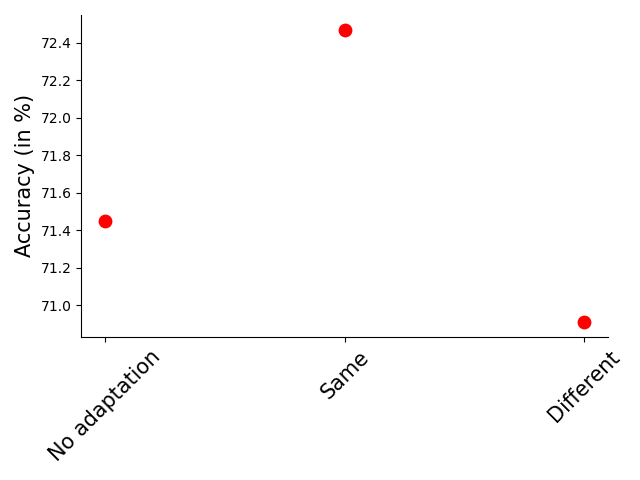
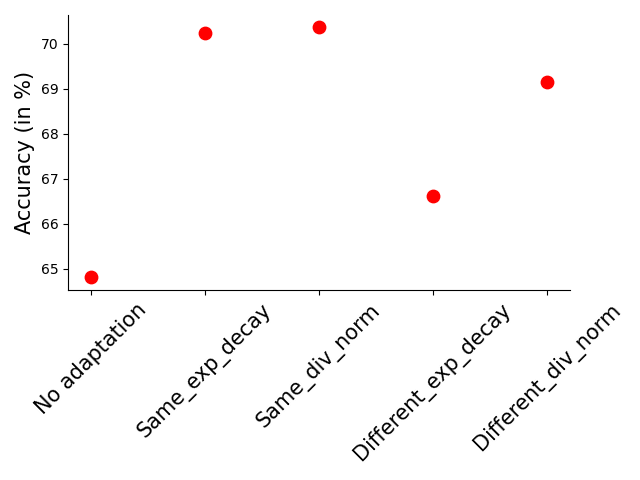
initial DN model performance (one initiliazation)

diff --git a/visualize_model_activations.py b/visualize_model_activations.py
@@ -58,6 +58,10 @@ batchsiz = 1
 
 colors = ['crimson', 'deepskyblue', 'orange']
 
+# define number of timesteps
+t_steps = 10
+print('\nNumber of timesteps: ', t_steps)
+
 linestyles = ['dotted', (0, (5, 10)), 'dashed', 'dashdot', (0, (3, 5, 1, 5, 1, 5))]
 linestyles_exp_decay = ['dotted', (0, (5, 10)), 'dashed', 'dashdot', (0, (3, 5, 1, 5, 1, 5))]
 linestyles_div_norm = ['dotted', (0, (3, 5, 1, 5, 1, 5)), (0, (5, 10)), 'dashed', 'dashdot']
@@ -67,11 +71,9 @@ alpha = np.linspace(0, 1, len(layers))
 alpha_exp_decay = np.linspace(0, 1, len(layers_exp_decay))
 alpha_div_norm = np.linspace(0, 1, len(layers_div_norm))
 
-# timecourse
-sample_rate = 40
-t_steps = 160
-dur = 80
-start = [40]
+# define number of timesteps
+t_steps = 10
+print('\nNumber of timesteps: ', t_steps)
 
 # t_steps = 15
 # dur = 10
@@ -103,28 +105,29 @@ elif (noise == 'same') | (noise == 'different'):
 dt = noiseMNIST_dataset(noise_imgs, noise_lbls)
 print('Shape training set: ', noise_imgs.shape, ', ', noise_lbls.shape)
 
-# create stimuli across timepoints
-noise_imgs, noise_lbls = create_stim_timecourse(dt, idx, t_steps, dur, start, noise_lbls)
-if plot:
-    fig2, axs = plt.subplots(1, t_steps)
-    for t in range(t_steps):    
-        axs[t].imshow(noise_imgs[t, :, :, :].reshape(28, 28, 1), cmap='gray', vmin=0, vmax=1)
-        axs[t].set_title('t =  ' + str(t+1), fontsize=5)
-    plt.show()
-    plt.close()
+# # create stimuli across timepoints
+# noise_imgs, noise_lbls = create_stim_timecourse(dt, idx, t_steps, dur, start, noise_lbls)
+# if plot:
+#     fig2, axs = plt.subplots(1, t_steps)
+#     for t in range(t_steps):    
+#         axs[t].imshow(noise_imgs[t, :, :, :].reshape(28, 28, 1), cmap='gray', vmin=0, vmax=1)
+#         axs[t].set_title('t =  ' + str(t+1), fontsize=5)
+#     plt.show()
+#     plt.close()
+
+tau1_init = torch.Tensor([0.0075])
+tau2_init = torch.Tensor([0.3741])
+sigma_init = torch.Tensor([0.1711])
 
 # initiate models
 model = cnn_feedforward(t_steps=t_steps)
-# model.load_state_dict(torch.load(dir+'weights/weights_feedforward_' + noise + '_' + contrast + '.pth'))
+model.load_state_dict(torch.load(dir+'weights/weights_feedforward_' + noise + '_' + contrast + '.pth'))
 
 model_exp_decay = cnn_feedforward_exp_decay(t_steps=t_steps)
-# model_exp_decay.load_state_dict(torch.load(dir+'weights/weights_feedforward_exp_decay_' + noise + '_' + contrast + '.pth'))    
+model_exp_decay.load_state_dict(torch.load(dir+'weights/weights_feedforward_exp_decay_' + noise + '_' + contrast + '.pth'))    
 
-# model_div_norm = cnn_feedforward_div_norm(batchsiz=batchsiz, t_steps=t_steps, sample_rate=sample_rate)
-# model_div_norm.load_state_dict(torch.load(dir+'weights/weights_feedforward_div_norm_' + noise + '_' + contrast + '.pth'))    
-
-model_div_norm = cnn_feedforward_div_norm_rec(t_steps=t_steps)
-# model_div_norm.load_state_dict(torch.load(dir+'weights/weights_feedforward_div_norm_' + noise + '_' + contrast + '.pth'))    
+model_div_norm = cnn_feedforward_div_norm(tau1_init, tau2_init, sigma_init, batchsiz=batchsiz, t_steps=t_steps, sample_rate=sample_rate)
+model_div_norm.load_state_dict(torch.load(dir+'weights/weights_feedforward_div_norm_' + noise + '_' + contrast + '.pth'))    
 
 print('Models loaded!')
 

diff --git a/visualize_model_performance_sep.py b/visualize_model_performance_sep.py
@@ -27,7 +27,7 @@ if linux:
     dir = '/home/amber/OneDrive/code/git_nAdaptation_DNN/'
 
 # noise labels
-noise_labels = ['No adaptation', 'Same', 'Different']
+noise_labels = ['No adaptation', 'Same_exp_decay', 'Same_div_norm', 'Different_exp_decay', 'Different_div_norm']
 contrast = 'lcontrast'
 
 # load accuracies with random initializations
@@ -35,21 +35,29 @@ accu_no = torch.load(dir+'accu/feedforward_same_' + contrast)
 accu_no_mean = torch.mean(accu_no)*100
 accu_no_std = torch.std(accu_no)/math.sqrt(len(accu_no))*100
 
-accu_same = torch.load(dir+'accu/feedforward_exp_decay_same_' + contrast)
-accu_same_mean = torch.mean(accu_same)*100
-accu_same_std = torch.std(accu_same)/math.sqrt(len(accu_same))*100
+accu_same_exp_decay = torch.load(dir+'accu/feedforward_exp_decay_same_' + contrast)
+accu_same_mean_exp_decay = torch.mean(accu_same_exp_decay)*100
+accu_same_std_exp_decay = torch.std(accu_same_exp_decay)/math.sqrt(len(accu_same_exp_decay))*100
 
-accu_different = torch.load(dir+'accu/feedforward_exp_decay_different_' + contrast)
-accu_diff_mean = torch.mean(accu_different)*100
-accu_diff_std = torch.std(accu_different)/math.sqrt(len(accu_different))*100
+accu_different_exp_decay = torch.load(dir+'accu/feedforward_exp_decay_different_' + contrast)
+accu_diff_mean_exp_decay = torch.mean(accu_different_exp_decay)*100
+accu_diff_std_exp_decay = torch.std(accu_different_exp_decay)/math.sqrt(len(accu_different_exp_decay))*100
 
-mean = [accu_no_mean, accu_same_mean, accu_diff_mean]
-std = [accu_no_std, accu_same_std, accu_diff_std]
+accu_same_div_norm = torch.load(dir+'accu/feedforward_div_norm_same_' + contrast)
+accu_same_mean_div_norm = torch.mean(accu_same_div_norm)*100
+accu_same_std_div_norm = torch.std(accu_same_div_norm)/math.sqrt(len(accu_same_div_norm))*100
+
+accu_different_div_norm = torch.load(dir+'accu/feedforward_div_norm_different_' + contrast)
+accu_diff_mean_div_norm = torch.mean(accu_different_div_norm)*100
+accu_diff_std_div_norm = torch.std(accu_different_div_norm)/math.sqrt(len(accu_different_div_norm))*100
+
+mean = [accu_no_mean, accu_same_mean_exp_decay, accu_same_mean_div_norm, accu_diff_mean_exp_decay, accu_diff_mean_div_norm]
+std = [accu_no_std, accu_same_std_exp_decay, accu_same_std_div_norm, accu_diff_std_exp_decay, accu_diff_std_div_norm]
 
 # initiate figure
 fig = plt.figure()
 
-for i in range(3):
+for i in range(5):
     plt.scatter(i, mean[i], color='red', zorder=1, s=80)
     plt.plot([i, i], [mean[i] - std[i], mean[i] + std[i]], color='black', zorder=-2, lw=3)
 ax = plt.gca()

diff --git a/visualize_model_activations_or.py b/visualize_model_activations_or.py
@@ -49,12 +49,16 @@ layers_plot_div_norm = ['conv1', 'conv2', 'conv3', 'fc1']
 # layers_plot_div_norm = 'conv1'
 # layer_idx_div_norm = layers_div_norm.index(layer_div_norm)
 
+# define number of timesteps
+t_steps = 10
+print('\nNumber of timesteps: ', t_steps)
+
 # contrast and dataset
 contrast = 'lcontrast'
 dataset = 'test'
 plot = False
 batchsiz = 1
-
+noise = 'same'
 sample_rate = 32
 
 colors = ['crimson', 'deepskyblue', 'orange']
@@ -76,7 +80,7 @@ idx = torch.randint(10000, (1,))
 print('Index image number: ', idx)
 
 # load stimuli
-imgs = torch.load(dir+'datasets/noiseMNIST/data/' + dataset + '_imgs_' + contrast)
+imgs = torch.load(dir+'datasets/noiseMNIST/data/' + str(t_steps) + '_' + noise + '_' + 'train_imgs_' + contrast)
 lbls = torch.load(dir+'datasets/noiseMNIST/data/' + dataset + '_lbls_' + contrast)
 
 dt = noiseMNIST_dataset(imgs, lbls)
@@ -84,7 +88,7 @@ print('Shape training set: ', imgs.shape, ', ', lbls.shape)
 t_steps = len(imgs[0, :, 0, 0, 0])
 
 # plot image
-axs[0].imshow(imgs[idx, 0, :, :, :].squeeze(), cmap='gray')
+axs[0].imshow(imgs[idx, 8, :, :, :].squeeze(), cmap='gray')
 
 # define input shape
 input_shape = dt[0][0].shape
@@ -94,16 +98,16 @@ c = input_shape[1]
 
 # initiate models
 model = cnn_feedforward(t_steps=t_steps)
-# model.load_state_dict(torch.load(dir+'weights/weights_feedforward_' + 'same' + '_' + contrast + '.pth'))
+model.load_state_dict(torch.load(dir+'weights/weights_feedforward_' + 'same' + '_' + contrast + '.pth'))
 print(summary(model))
 
 model_exp_decay = cnn_feedforward_exp_decay(t_steps=t_steps)
-# model_exp_decay.load_state_dict(torch.load(dir+'weights/weights_feedforward_exp_decay_' + contrast + '.pth'))    
+model_exp_decay.load_state_dict(torch.load(dir+'weights/weights_feedforward_exp_decay_' + noise + '_' + contrast + '.pth'))    
 print(summary(model_exp_decay))
 
 
 model_div_norm = cnn_feedforward_div_norm(torch.Tensor([0.4585]), torch.Tensor([0.2736]), torch.Tensor([0.2164]), batchsiz=batchsiz, t_steps=t_steps, sample_rate=sample_rate)
-# model_div_norm.load_state_dict(torch.load(dir+'weights/weights_feedforward_div_norm_' + contrast + '.pth'))    
+model_div_norm.load_state_dict(torch.load(dir+'weights/weights_feedforward_div_norm_' + noise + '_' + contrast + '.pth'))    
 print(summary(model_div_norm))
 
 # model_div_norm = cnn_feedforward_div_norm_rec(t_steps=t_steps)

diff --git a/train_feedforward.py b/train_feedforward.py
@@ -32,19 +32,23 @@ numepchs = 1
 batchsiz = 100
 lr = 0.0001
 
+# define number of timesteps
+t_steps = 10
+print('\nNumber of timesteps: ', t_steps)
+
 # noise pattern
-noise = 'same'
+noise = 'different'
 contrast = 'lcontrast'
 
 # load training set
-noise_imgs = torch.load(dir+'datasets/noiseMNIST/data/' + noise + '_' + 'train_imgs_' + contrast)
-noise_lbls = torch.load(dir+'datasets/noiseMNIST/data/' + noise + '_' + 'train_lbls_' + contrast)
+noise_imgs = torch.load(dir+'datasets/noiseMNIST/data/' + str(t_steps) + '_' + noise + '_' + 'train_imgs_' + contrast)
+noise_lbls = torch.load(dir+'datasets/noiseMNIST/data/' + str(t_steps) + '_' + noise + '_' + 'train_lbls_' + contrast)
 traindt = noiseMNIST_dataset(noise_imgs, noise_lbls)
 print('Shape training set: ', noise_imgs.shape, ', ', noise_lbls.shape)
 
 # load test set
-noise_imgs = torch.load(dir+'datasets/noiseMNIST/data/' + noise + '_' + 'test_imgs_' + contrast)
-noise_lbls = torch.load(dir+'datasets/noiseMNIST/data/' + noise + '_' + 'test_lbls_' + contrast)
+noise_imgs = torch.load(dir+'datasets/noiseMNIST/data/' + str(t_steps) + '_' + noise + '_' + 'test_imgs_' + contrast)
+noise_lbls = torch.load(dir+'datasets/noiseMNIST/data/' + str(t_steps) + '_' +noise + '_' + 'test_lbls_' + contrast)
 testdt = noiseMNIST_dataset(noise_imgs, noise_lbls)
 print('Shape test set: ', noise_imgs.shape, ', ', noise_lbls.shape)
 

diff --git a/models/module_exp_decay.py b/models/module_exp_decay.py
@@ -7,14 +7,14 @@ class module_exp_decay(nn.Module):
 
         if height == 'none':
             self.channels = channels
-            self.alpha   = nn.Parameter(torch.rand([self.channels]).unsqueeze_(dim=0))
-            self.beta    = nn.Parameter(torch.ones([self.channels]).unsqueeze_(dim=0))
+            self.alpha   = nn.Parameter(torch.ones([self.channels]).unsqueeze_(dim=0)*0.96, requires_grad=False)
+            self.beta    = nn.Parameter(torch.ones([self.channels]).unsqueeze_(dim=0)*0.7, requires_grad=False)
         else:
             self.height = height
             self.width = width
             self.channels = channels
-            self.alpha   = nn.Parameter(torch.rand([self.height, self.width, self.channels]).unsqueeze_(dim=0))
-            self.beta    = nn.Parameter(torch.ones([self.height, self.width, self.channels]).unsqueeze_(dim=0))
+            self.alpha   = nn.Parameter(torch.ones([self.height, self.width, self.channels]).unsqueeze_(dim=0)*0.96, requires_grad=False)
+            self.beta    = nn.Parameter(torch.ones([self.height, self.width, self.channels]).unsqueeze_(dim=0)*0.7, requires_grad=False)
 
     def forward(self, x, x_previous, s_previous):
 

diff --git a/train_feedforward_adapt.py b/train_feedforward_adapt.py
@@ -27,7 +27,7 @@ dir = '/home/amber/OneDrive/code/git_nAdaptation_DNN/'
 
 # track model training on neptune
 run_init = True
-random_init = 10
+random_init = 1
 
 # set hypterparameters
 numepchs = 1
@@ -40,10 +40,10 @@ t_steps = 10
 print('\nNumber of timesteps: ', t_steps)
 
 # noise pattern
-noise = 'same'
+noise = 'different'
 contrast = 'lcontrast'
-# adapt = 'exp_decay'
-adapt = 'div_norm'
+adapt = 'exp_decay'
+# adapt = 'div_norm'
 
 train_tau1 = False
 train_tau2 = False
@@ -77,9 +77,12 @@ for i in range(random_init):
     print('Random init: ', i+1)
 
     # choose initial values DN model
-    tau1_init = torch.rand(1)
-    tau2_init = torch.rand(1)
-    sigma_init = torch.rand(1)
+    # tau1_init = torch.rand(1)
+    # tau2_init = torch.rand(1)
+    # sigma_init = torch.rand(1)
+    tau1_init = torch.Tensor([0.0075])
+    tau2_init = torch.Tensor([0.3741])
+    sigma_init = torch.Tensor([0.1711])
 
     df.loc[i, 'Init'] = 1
     df.loc[i, ['tau1_init', 'tau2_init', 'sigma_init']] = [tau1_init, tau2_init, sigma_init]
